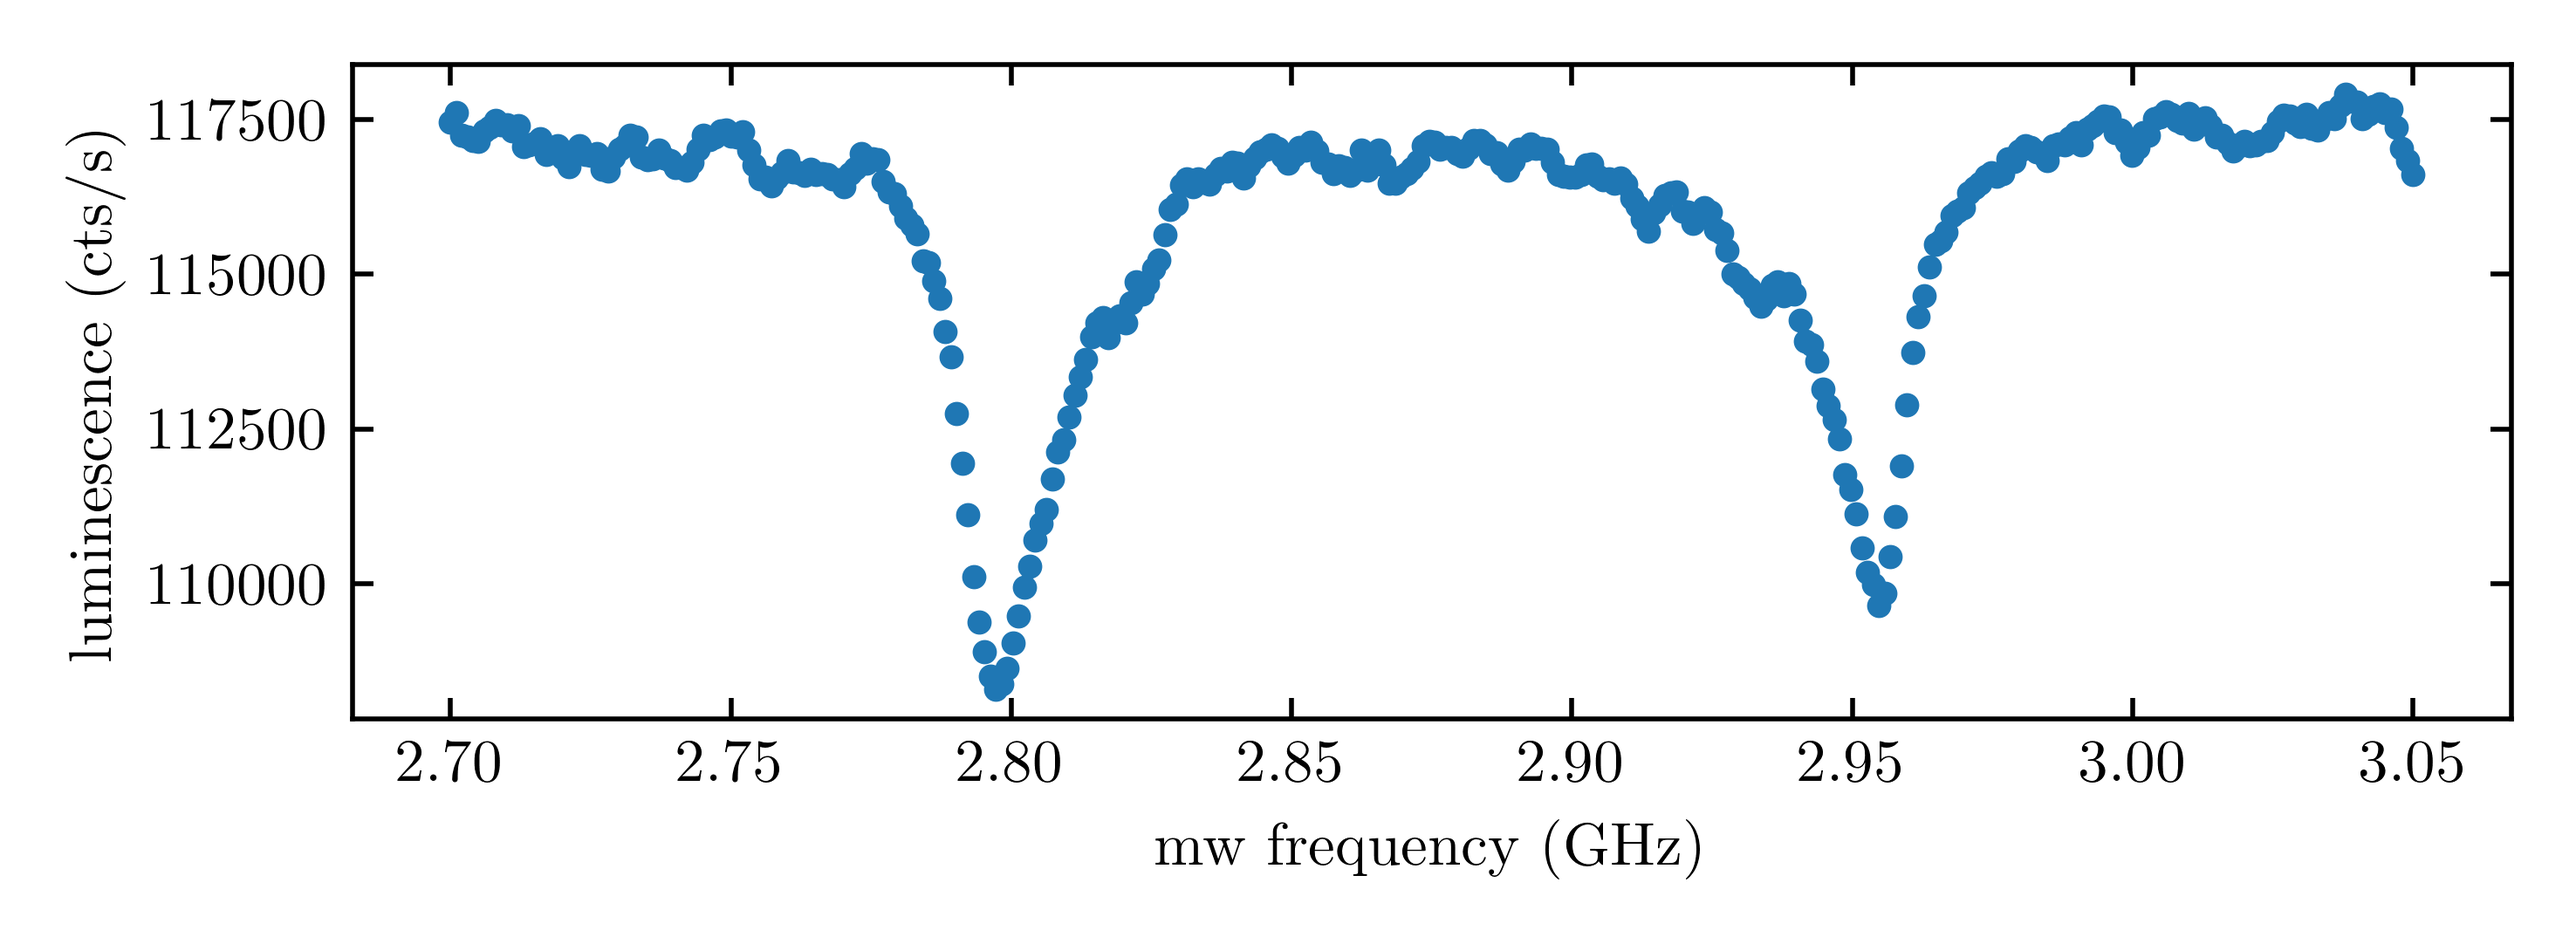
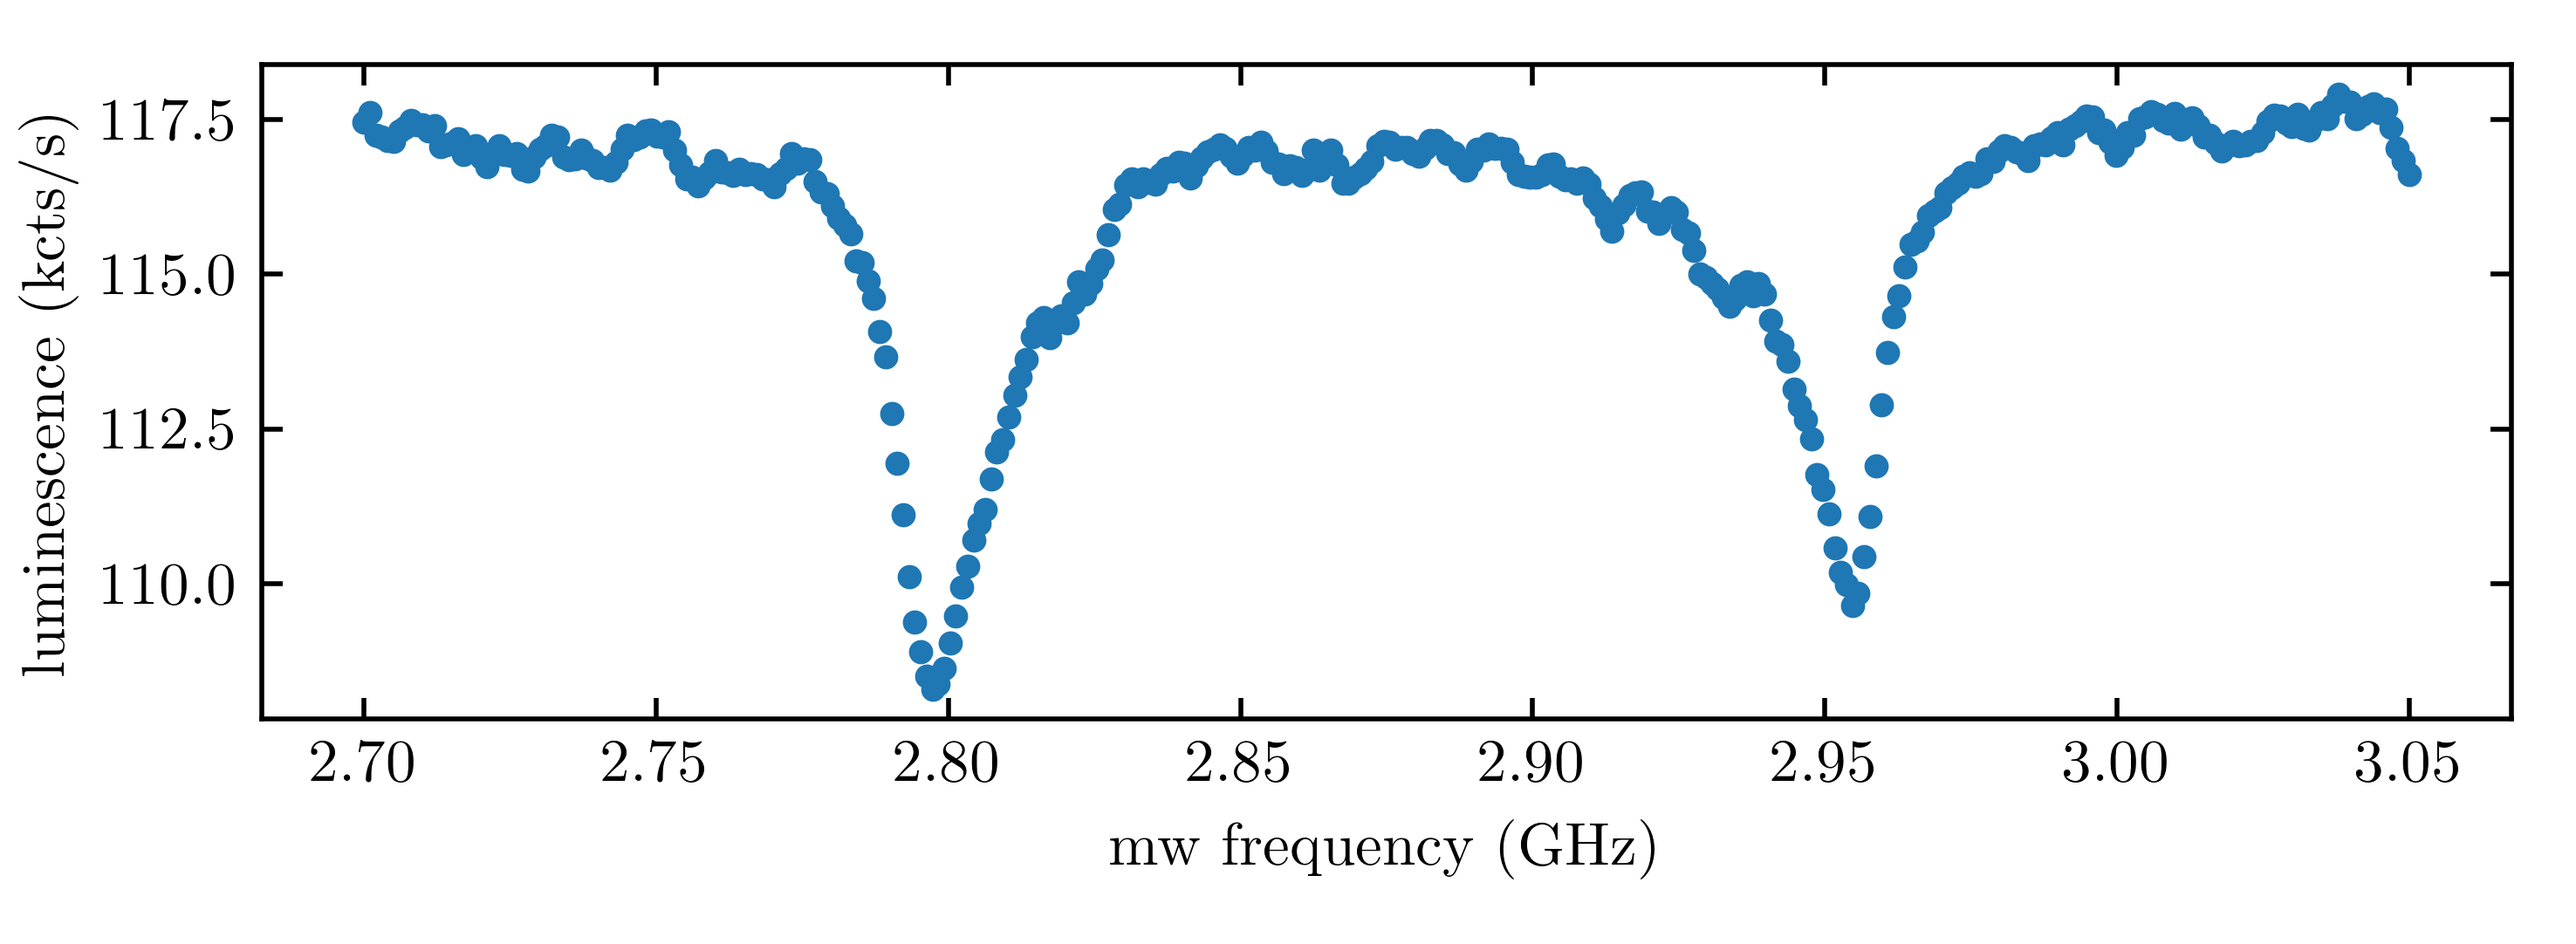
pulsed_odmr_spectrum

diff --git a/images/chapter_4/pulsed_odmr.py b/images/chapter_4/pulsed_odmr.py
@@ -1,0 +1,44 @@
+import os
+
+import matplotlib.pyplot as plt
+import numpy as np
+import scipy.io as sio
+
+from util import smoothing
+from util.inches import cm_to_inch
+
+
+def main():
+    cts_broad, freqs_broad = load_raw_data('p_odmr.000.mat')
+    cts_narrow, freqs_narrow = load_raw_data('p_odmr.002.mat')
+
+    plot_and_save_odmr_spectrum(cts_broad, cts_narrow, freqs_broad, freqs_narrow)
+
+
+def plot_and_save_odmr_spectrum(cts_broad, cts_narrow, freqs_broad, freqs_narrow):
+    fig, (ax1, ax2) = plt.subplots(1, 2)
+    fig.set_figheight(cm_to_inch(5.5))
+    fig.set_figwidth(cm_to_inch(15))
+    plot_one_axis(ax1, cts_broad, freqs_broad)
+    plot_one_axis(ax2, cts_narrow, freqs_narrow)
+    plt.tight_layout()
+    plt.savefig('pulsed_odmr_spectrum.png', dpi=500)
+
+
+def plot_one_axis(axis, cts, freqs):
+    axis.plot(freqs * 1e-9, smoothing.smooth_array_by_rolling_average(cts, 2) * 1e-6, '.')
+    axis.set_xlabel('mw frequency (GHz)')
+    axis.set_ylabel('luminescence (Mcts/s)')
+
+
+def load_raw_data(file_name):
+    file_name_and_path = os.path.join(
+        "//file/e24/Projects/ReinhardLab/data_setup_nv1/190306_timo_cam+p_odmr/pulsed_odmr_1_detuned", file_name)
+    odmr_data = sio.loadmat(file_name_and_path)
+    cts = odmr_data['ci'][0]
+    freqs = np.linspace(odmr_data['fstart'][0][0], odmr_data['fend'][0][0], cts.shape[0])
+    return cts, freqs
+
+
+if __name__ == '__main__':
+    main()

diff --git a/images/chapter_4/cw_odmr.py b/images/chapter_4/cw_odmr.py
@@ -13,9 +13,9 @@ def main():
 
 def plot_and_save_odmr_spectrum(cts, freqs):
     plt.figure(figsize=(inches.cm_to_inch(15), inches.cm_to_inch(5.5)))
-    plt.plot(freqs * 1e-9, smoothing.smooth_array_by_rolling_average(cts, 2), '.')
+    plt.plot(freqs * 1e-9, smoothing.smooth_array_by_rolling_average(cts, 2) * 1e-3, '.')
     plt.xlabel('mw frequency (GHz)')
-    plt.ylabel('luminescence (cts/s)')
+    plt.ylabel('luminescence (kcts/s)')
     plt.tight_layout()
     plt.savefig('cw_odmr_spectrum.png', dpi=500)
 
